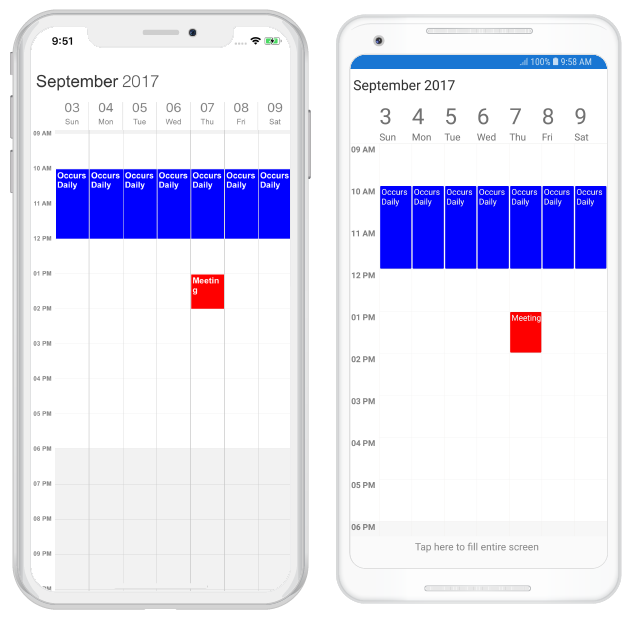
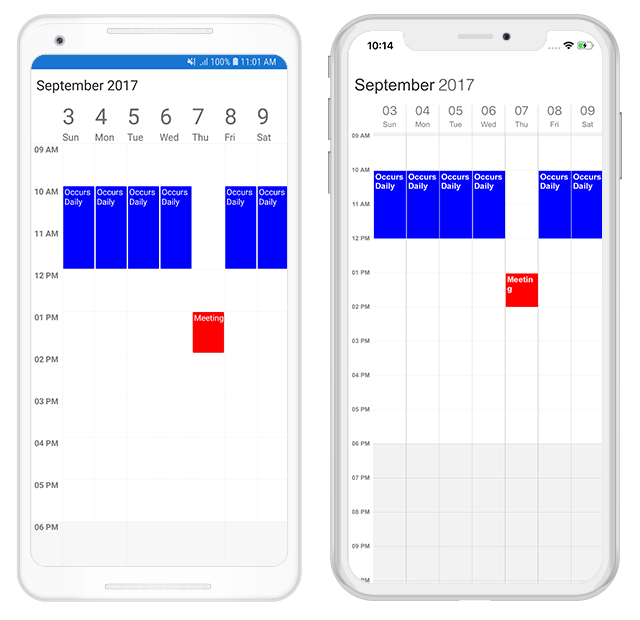
no message

diff --git a/Xamarin/SfSchedule/data-bindings.md b/Xamarin/SfSchedule/data-bindings.md
@@ -528,6 +528,12 @@ var recurrenceAppointment = new ScheduleAppointment()
 // Creating recurrence rule
 recurrenceAppointment.RecurrenceRule = "FREQ=DAILY;COUNT=20";
 
+// Add RecurrenceExceptionDates to appointment.
+recurrenceAppointment.RecurrenceExceptionDates = new ObservableCollection<DateTime>()
+{
+	exceptionDate 
+};
+
 // Add exception appointment to the current recurrence pattern
 var exceptionAppointment = new ScheduleAppointment()
 {
